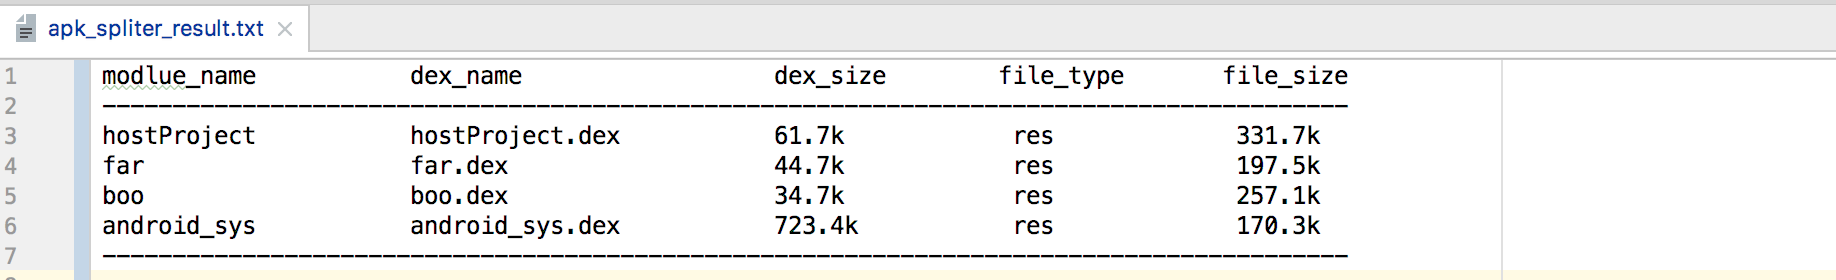
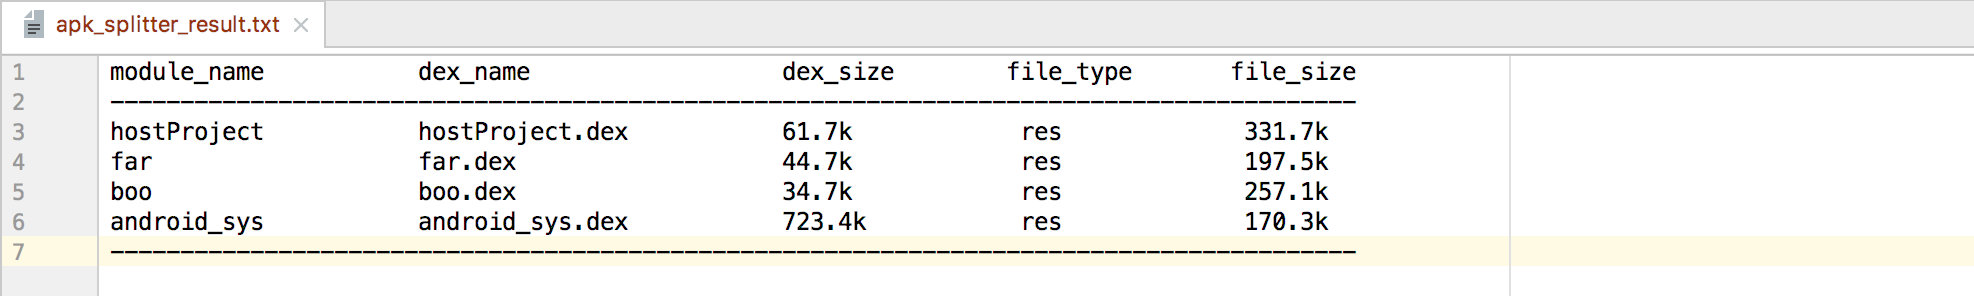
update the result pic

diff --git a/extra/splitdex/parse_util.py b/extra/splitdex/parse_util.py
@@ -290,7 +290,7 @@ def save_apkparse_result(module_file_list, file_path):
         return
     f = open(file_path, 'w')
 
-    f.write('modlue_name'+ add_spaces('modlue_name')+'dex_name' + add_spaces('    ') +
+    f.write('module_name'+ add_spaces('module_name')+'dex_name' + add_spaces('    ') +
             'dex_size'  + "        file_type       "  + 'file_size\n')
     f.write('-----------------------------------------------------------------------------------------\n')
     for module_file in module_file_list:
@@ -299,7 +299,7 @@ def save_apkparse_result(module_file_list, file_path):
             round(module_file.dex_file_size / 1024, 1)) + "k            res             " + str(
             round(module_file.total_res_size / 1024, 1)) + 'k\n'
         f.write(pre)
-    f.write('---------------------------------------------------------------------------------------\n')
+    f.write('-----------------------------------------------------------------------------------------')
     f.close()
 
 
